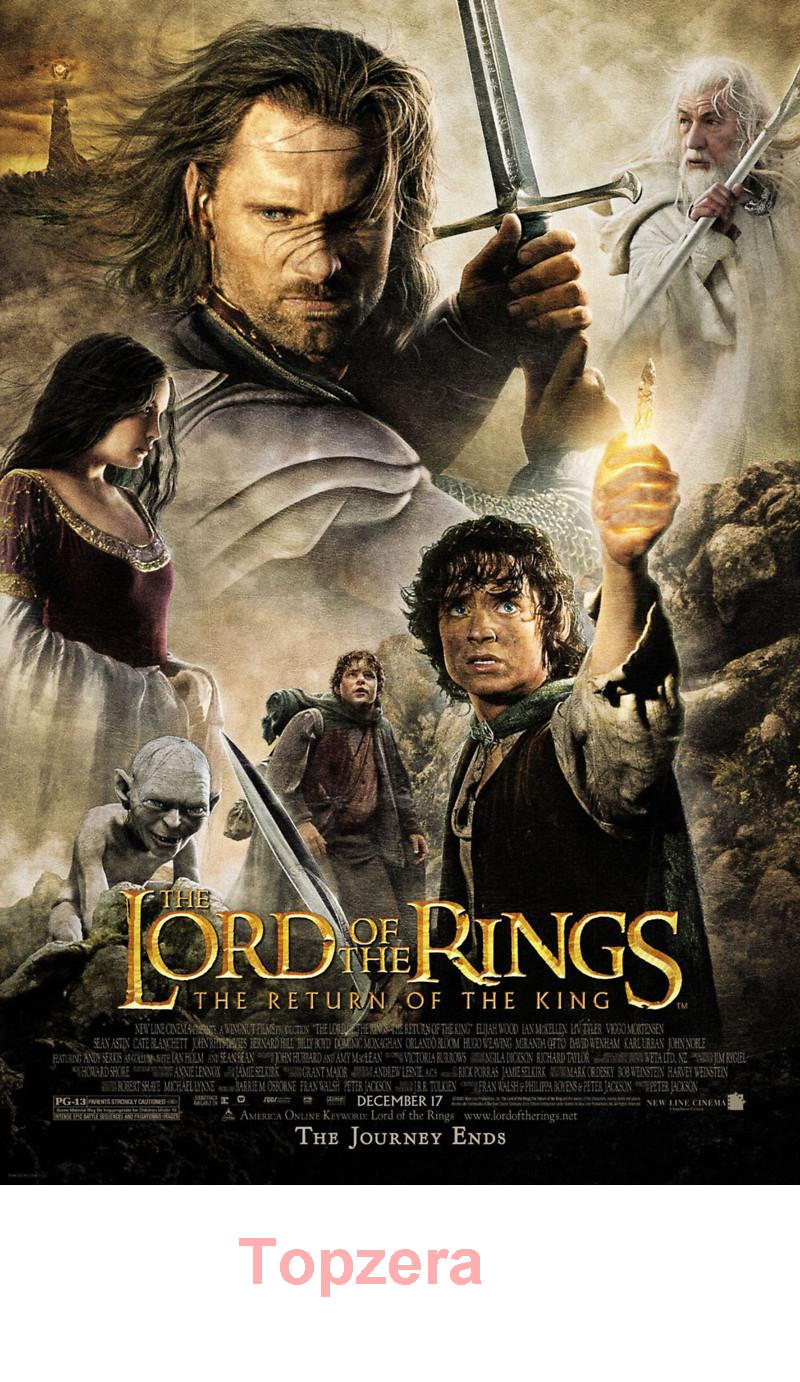
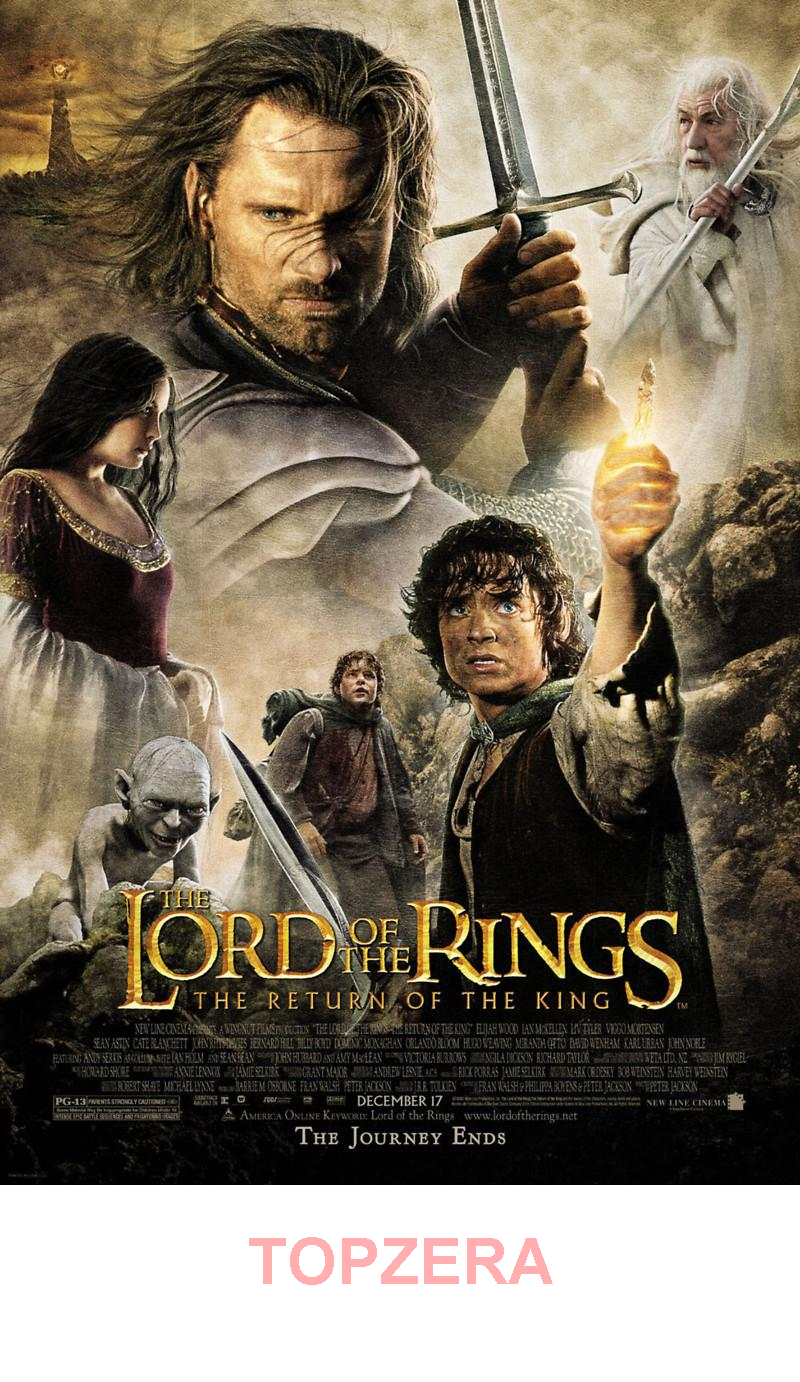
Set text center

Changed region(s): [[0.3125, 0.8712, 0.6875, 0.9334]]

diff --git a/alura-stickers/src/StickerFactory.java b/alura-stickers/src/StickerFactory.java
@@ -36,7 +36,14 @@ public class StickerFactory {
 
 
         // write text on image
-        graphics.drawString("Topzera", height / 5, (newHeight - newHeight/14));
+        String text = "TOPZERA";
+        int stringWidthLength = (int) graphics.getFontMetrics().getStringBounds(text, graphics).getWidth();
+      //  int stringHeightLength = (int) graphics.getFontMetrics().getStringBounds(comment, graphics).getHeight();
+
+        int horizontalCenter = newImage.getWidth() / 2 - stringWidthLength / 2;
+      //  int verticalCenter = newImage.getHeight() / 2 - stringHeightLength / 2;
+
+        graphics.drawString(text,horizontalCenter , (newHeight - newHeight/14));
 
 
         // put an image in the file
